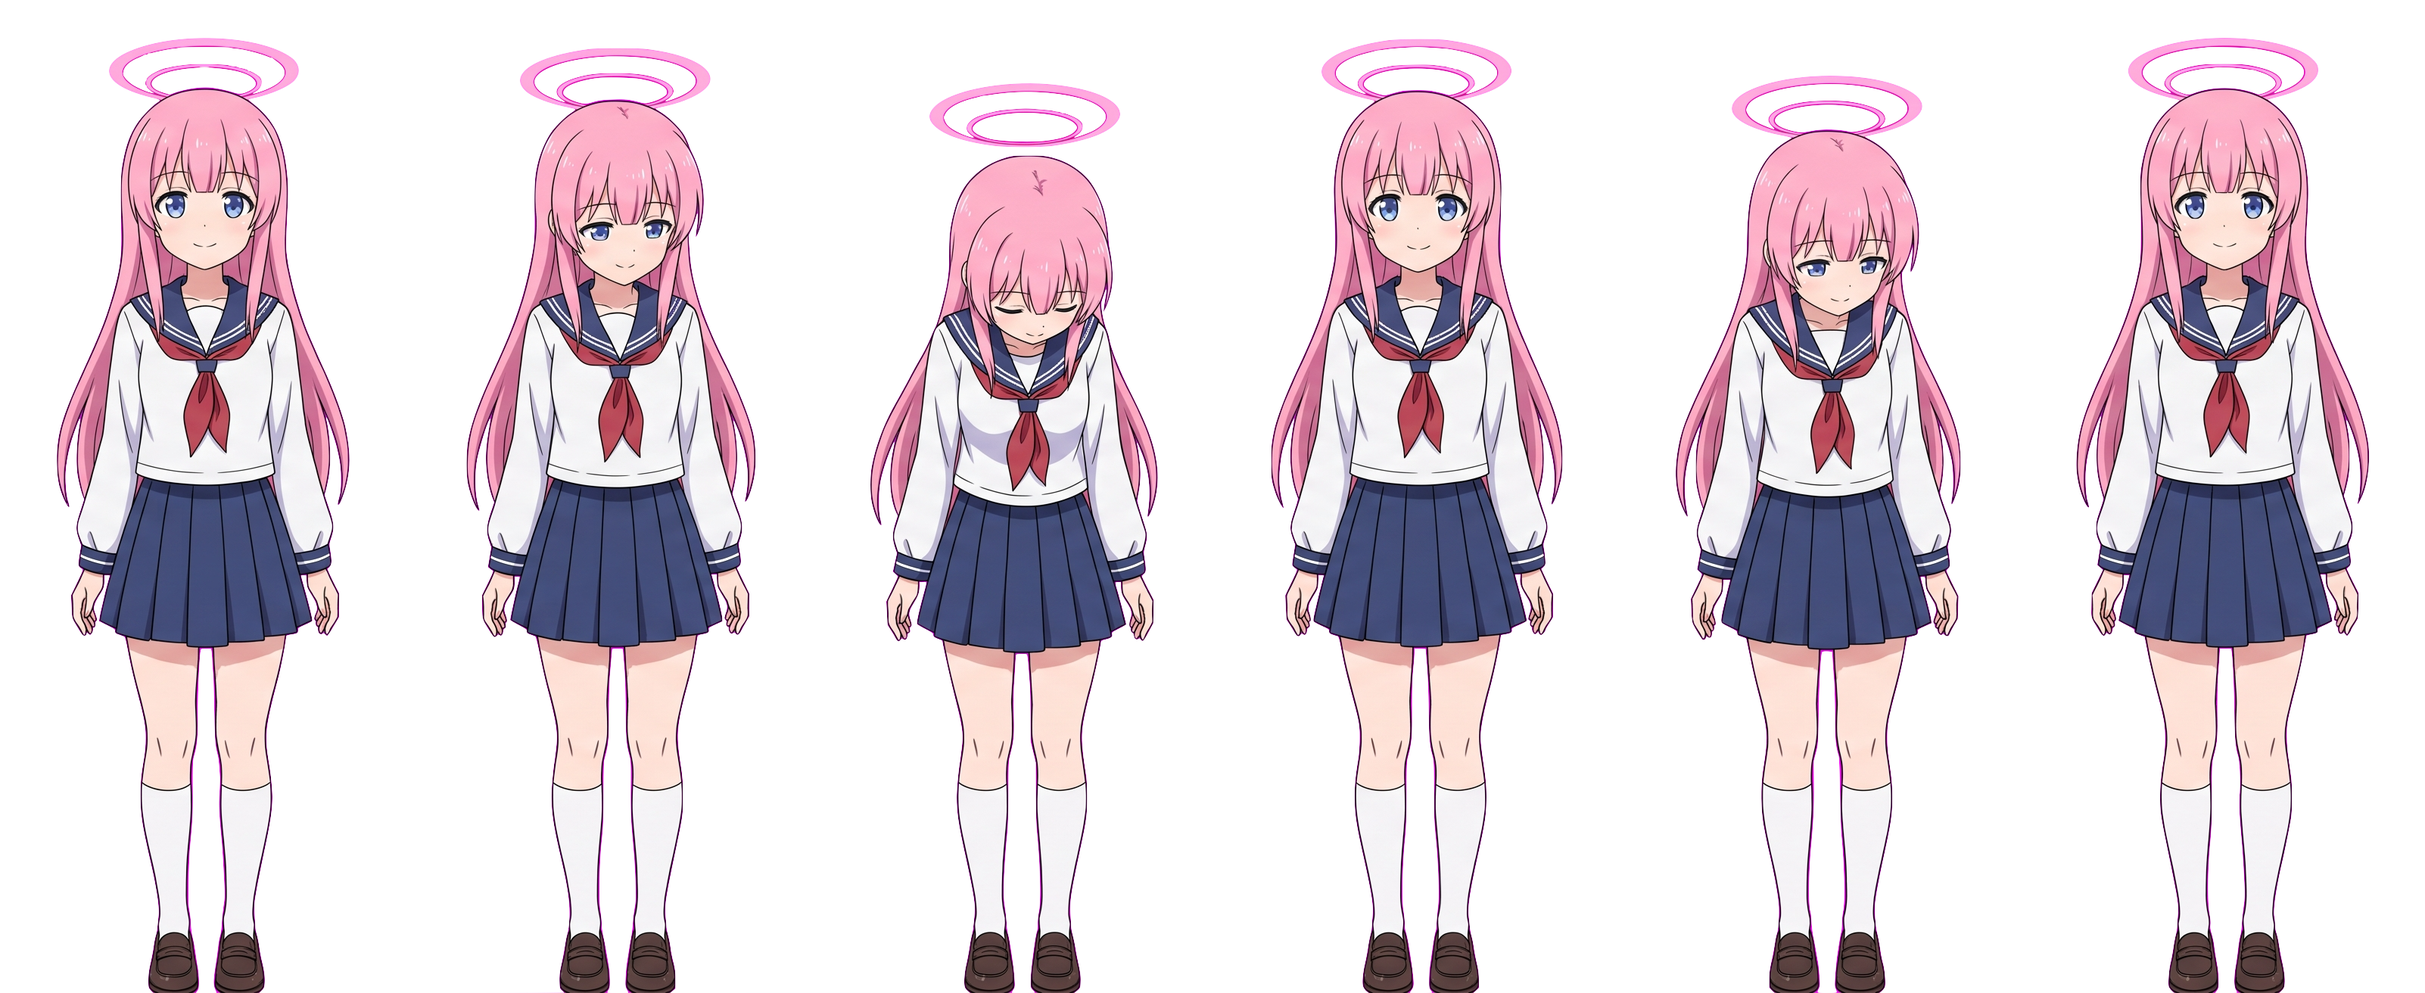
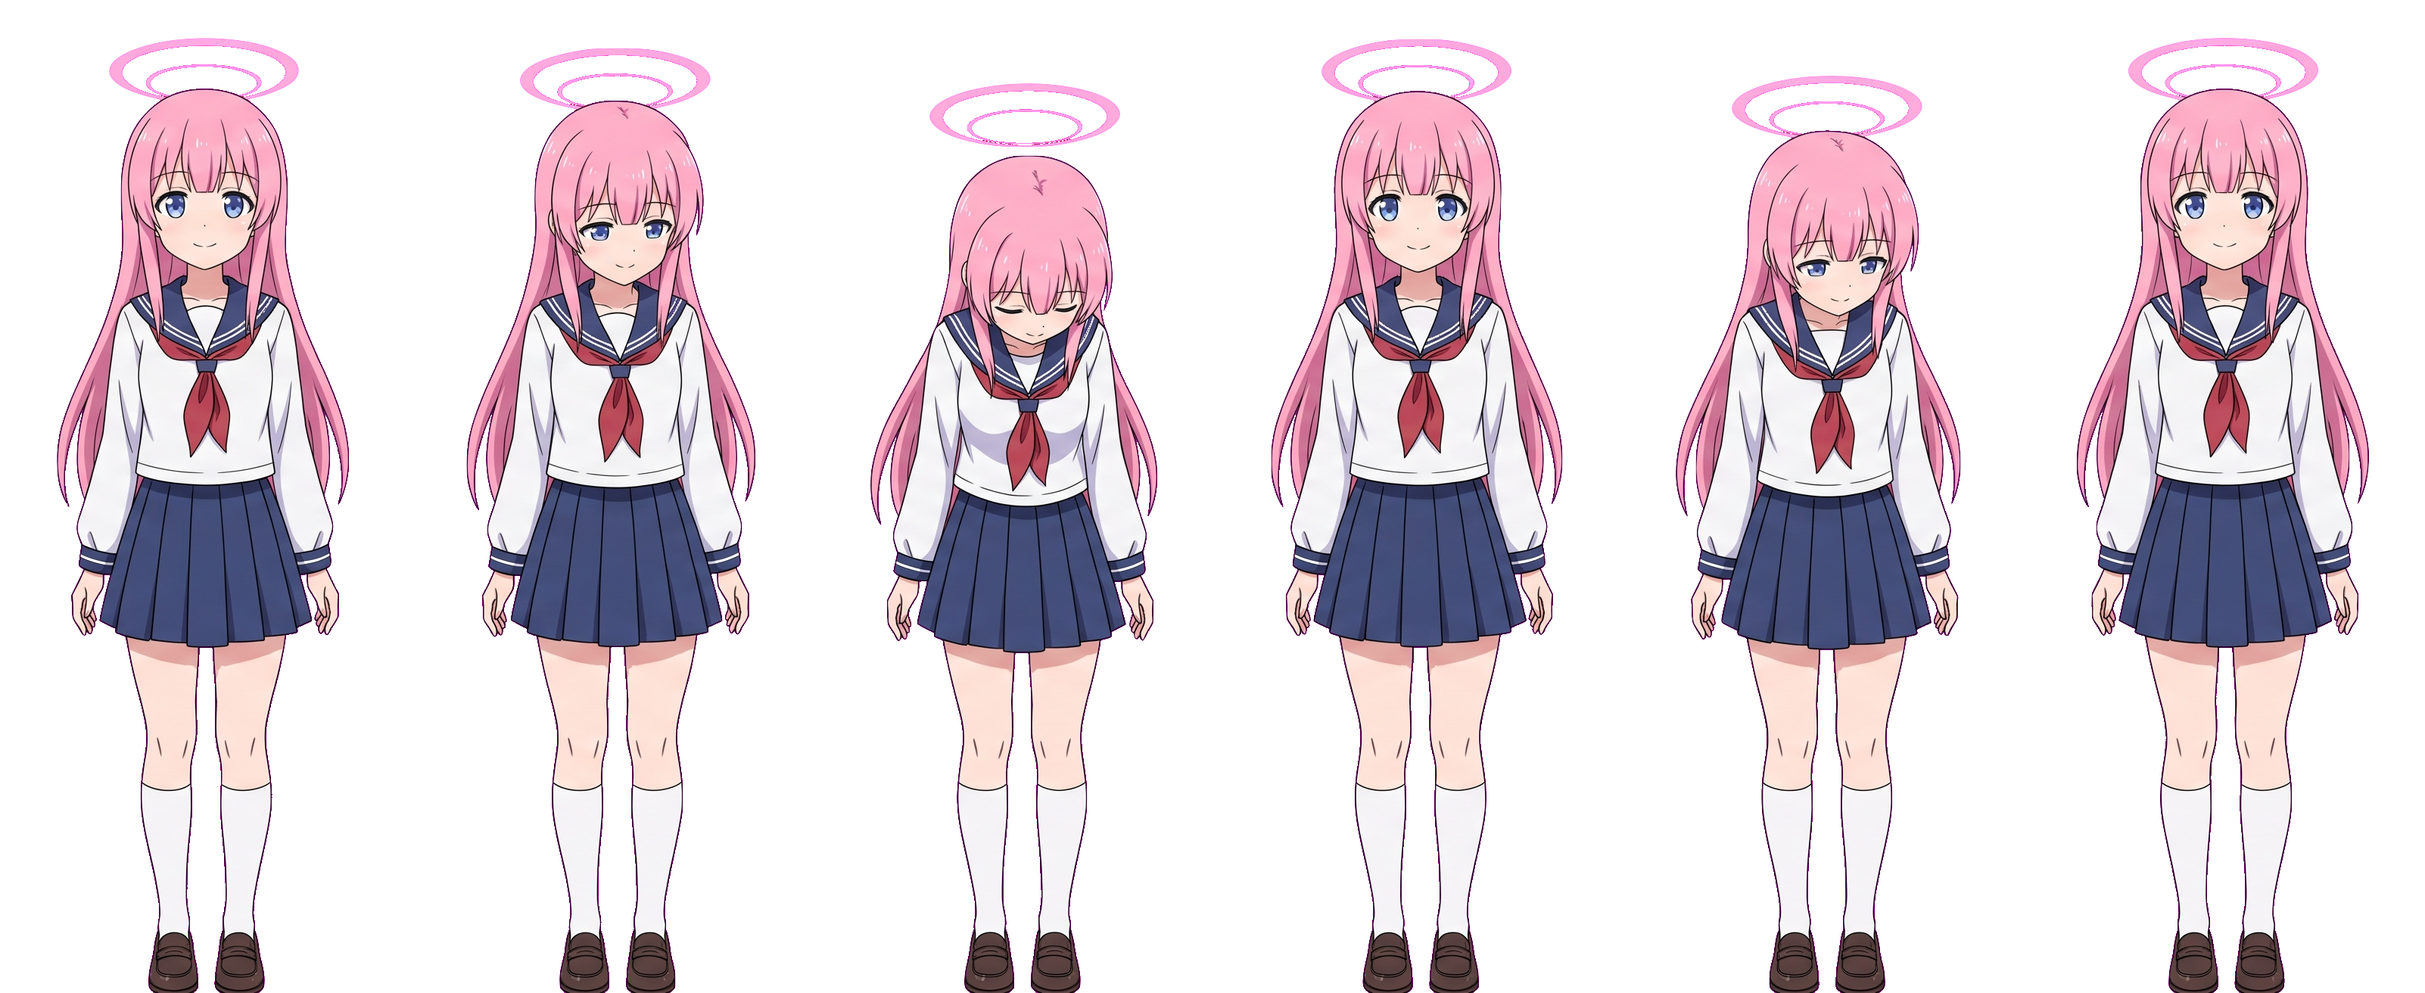
修复(2.5D立绘): 清理精灵表洋红残底与邻帧残臂，按动作语义重映射播放帧
- 7 张精灵表清除洋红底噪与边缘杂点，并删除 11 处跨单元越界残留的邻帧手臂碎片
  （yawn 第 1/2/4/5/6 帧、sit 第 1/3/4 帧；删除前后 py 脚本扫描残留数 11 → 0）
- FrameAnimator 新增 frameSequence 逻辑序列：IDLE 跳过垂直上跳 37px 的第 2 帧、
  SIT 跳过宽腿深蹲帧、SLEEP 定格低头闭眼帧、JUMP 用抬臂欢呼帧、SHAKE_HEAD 用正面待机帧
- CharacterCanvasRenderer 解耦常驻 idleClock、2.5D 坐姿保持正坐末帧，重写 JUMP
  蓄力-腾空-缓冲曲线与 SHAKE_HEAD / SLEEP / SMUG 形变

Harness: DeepSeek Harness (dsh)
Model: deepseek-v4.1-flash

diff --git a/android/app/src/main/java/com/persona/ar/character/CharacterCanvasRenderer.kt b/android/app/src/main/java/com/persona/ar/character/CharacterCanvasRenderer.kt
@@ -51,18 +51,19 @@ fun CharacterCanvasRenderer(
     val animator = remember { FrameAnimator(context.applicationContext) }
     val requestedClip = remember(visualState.action) { animator.clipFor(visualState.action) }
     val idleClip = remember { animator.clipFor(ActionType.IDLE) }
+    val sitClip = remember { animator.clipFor(ActionType.SIT) }
 
-    // 动作开始时间戳：当 action 或 actionStartedAtNanos 变化时同步更新，确保连续点击时从第 0 帧平滑重播
+    // 动作开始时间戳与常驻待机基准时钟解耦，避免动作结束后与 scheduleActionReset 发生二次跳帧
     var actionStartNanos by remember(visualState.action, visualState.actionStartedAtNanos) {
         mutableLongStateOf(
             if (visualState.actionStartedAtNanos > 0L) visualState.actionStartedAtNanos else System.nanoTime()
         )
     }
-    var nowNanos by remember { mutableLongStateOf(0L) }
+    val idleStartNanos = remember { System.nanoTime() }
+    var nowNanos by remember { mutableLongStateOf(System.nanoTime()) }
     LaunchedEffect(visualState.action, visualState.actionStartedAtNanos) {
         actionStartNanos = if (visualState.actionStartedAtNanos > 0L) visualState.actionStartedAtNanos else System.nanoTime()
     }
-    // 用无限动画驱动重绘，保证帧刷新
     LaunchedEffect(Unit) {
         while (true) {
             nowNanos = System.nanoTime()
@@ -73,21 +74,35 @@ fun CharacterCanvasRenderer(
     val elapsedSeconds = if (actionStartNanos > 0L && nowNanos >= actionStartNanos) {
         (nowNanos - actionStartNanos) / 1_000_000_000f
     } else 0f
+    val idleClockSeconds = ((nowNanos - idleStartNanos) / 1_000_000_000f).coerceAtLeast(0f)
 
-    // 一次性动作播完后自动平滑切回待机呼吸，避免定格在最后一帧；再次点击时立即从第 0 帧重新响应
-    val (activeClip, activeElapsed) = remember(requestedClip, idleClip, elapsedSeconds) {
-        if (requestedClip != null) {
-            if (requestedClip.loop || elapsedSeconds < animator.durationSeconds(requestedClip)) {
-                Pair(requestedClip, elapsedSeconds)
-            } else {
-                Pair(idleClip ?: requestedClip, elapsedSeconds)
+    // 坐姿保持：SIT 播完定格在正坐末帧；IDLE 且处于坐姿时延续正坐态不站回；一次性动作播完切回连续时钟待机
+    val (activeClip, activeElapsed) = remember(
+        requestedClip, idleClip, sitClip, visualState.action, visualState.skeletonStance, elapsedSeconds, idleClockSeconds
+    ) {
+        val isSitting = visualState.skeletonStance == SkeletonStance.SITTING
+        when {
+            visualState.action == ActionType.SIT && sitClip != null -> {
+                Pair(sitClip, elapsedSeconds.coerceAtMost(animator.durationSeconds(sitClip)))
             }
-        } else {
-            Pair(idleClip, elapsedSeconds)
+            requestedClip != null && visualState.action != ActionType.IDLE -> {
+                if (requestedClip.loop || elapsedSeconds < animator.durationSeconds(requestedClip)) {
+                    Pair(requestedClip, elapsedSeconds)
+                } else if (isSitting && sitClip != null) {
+                    Pair(sitClip, animator.durationSeconds(sitClip))
+                } else {
+                    Pair(idleClip ?: requestedClip, idleClockSeconds)
+                }
+            }
+            isSitting && sitClip != null -> {
+                Pair(sitClip, animator.durationSeconds(sitClip))
+            }
+            else -> {
+                Pair(idleClip, idleClockSeconds)
+            }
         }
     }
 
-    // 当前帧序号：整张精灵表不切分，绘制时按网格取第 index 格
     val currentFrameIndex = remember(activeClip, activeElapsed) {
         activeClip?.let { clip ->
             animator.frameIndexAt(clip, activeElapsed)
@@ -106,10 +121,52 @@ fun CharacterCanvasRenderer(
         label = "smoothTiltY"
     )
 
-    // 动作与表情物理律动（跳跃腾空 / 摇头摆头 / 得意歪头）
+    // 动作与表情物理律动（跳跃腾空+挤压拉伸 / 摇头摆头 / 睡觉轻呼吸摇晃 / 得意昂首）
     val actionPhaseSec = elapsedSeconds.coerceAtLeast(0f)
-    val actionShakeOffsetX = if (visualState.action == ActionType.SHAKE_HEAD && actionPhaseSec < 1.5f) {
-        sin(actionPhaseSec * 16f) * 9f * (1f - actionPhaseSec / 1.5f)
+    val jumpClipDur = requestedClip?.let { animator.durationSeconds(it) } ?: 1.55f
+    val jumpOffsetY: Float
+    val jumpScaleX: Float
+    val jumpScaleY: Float
+    if (visualState.action == ActionType.JUMP && actionPhaseSec < jumpClipDur) {
+        val p = (actionPhaseSec / jumpClipDur).coerceIn(0f, 1f)
+        when {
+            p < 0.18f -> {
+                val k = p / 0.18f
+                jumpOffsetY = 12f * k; jumpScaleX = 1f + 0.07f * k; jumpScaleY = 1f - 0.08f * k
+            }
+            p < 0.78f -> {
+                val arc = sin(((p - 0.18f) / 0.60f) * Math.PI).toFloat()
+                jumpOffsetY = -78f * arc; jumpScaleX = 1f - 0.04f * arc; jumpScaleY = 1f + 0.06f * arc
+            }
+            else -> {
+                val c = sin(((p - 0.78f) / 0.22f) * Math.PI).toFloat()
+                jumpOffsetY = 10f * c; jumpScaleX = 1f + 0.06f * c; jumpScaleY = 1f - 0.06f * c
+            }
+        }
+    } else {
+        jumpOffsetY = 0f; jumpScaleX = 1f; jumpScaleY = 1f
+    }
+
+    val actionShakeOffsetX = if (visualState.action == ActionType.SHAKE_HEAD && actionPhaseSec < 1.75f) {
+        val p = (actionPhaseSec / 1.75f).coerceIn(0f, 1f)
+        sin(p * Math.PI * 6.0).toFloat() * 14f * (1f - p * 0.5f)
+    } else 0f
+    val actionShakeTiltDeg = if (visualState.action == ActionType.SHAKE_HEAD && actionPhaseSec < 1.75f) {
+        val p = (actionPhaseSec / 1.75f).coerceIn(0f, 1f)
+        sin(p * Math.PI * 6.0).toFloat() * 3.2f * (1f - p * 0.5f)
+    } else 0f
+
+    val sleepBobY = if (visualState.action == ActionType.SLEEP) {
+        sin(idleClockSeconds * 1.45).toFloat() * 3.5f
+    } else 0f
+    val sleepTiltDeg = if (visualState.action == ActionType.SLEEP) {
+        sin(idleClockSeconds * 0.92).toFloat() * 2.2f
+    } else 0f
+    val smugScaleBoost = if (visualState.action == ActionType.SMUG || visualState.emotion == EmotionType.CONFIDENT) {
+        1.028f
+    } else 1f
+    val smugLiftY = if (visualState.action == ActionType.SMUG) {
+        -6f * sin((actionPhaseSec / 2.2f).coerceIn(0f, 1f) * Math.PI).toFloat()
     } else 0f
 
     // 触碰即时局部形变响应 (Squeeze & Spring Bounce)
@@ -132,10 +189,12 @@ fun CharacterCanvasRenderer(
     )
 
     val smugLeanDeg by animateFloatAsState(
-        targetValue = if (visualState.action == ActionType.SMUG || visualState.emotion == EmotionType.CONFIDENT) {
-            4.5f
-        } else 0f,
-        animationSpec = spring(dampingRatio = Spring.DampingRatioMediumBouncy),
+        targetValue = when {
+            visualState.action == ActionType.SMUG || visualState.emotion == EmotionType.CONFIDENT ->
+                2.5f * sin(idleClockSeconds * 1.8).toFloat()
+            else -> 0f
+        },
+        animationSpec = tween(durationMillis = 180),
         label = "smugLean"
     )
 
@@ -177,12 +236,6 @@ fun CharacterCanvasRenderer(
     var offsetX by remember { mutableFloatStateOf(0f) }
     var offsetY by remember { mutableFloatStateOf(0f) }
     var scale by remember { mutableFloatStateOf(1.0f) }
-
-    val jumpAnim by animateFloatAsState(
-        targetValue = if (visualState.action == ActionType.JUMP) -50f else 0f,
-        animationSpec = spring(dampingRatio = Spring.DampingRatioMediumBouncy),
-        label = "jump"
-    )
 
     Box(
         modifier = modifier
@@ -228,7 +281,7 @@ fun CharacterCanvasRenderer(
                 .offset {
                     IntOffset(
                         (offsetX + smoothTiltX + actionShakeOffsetX).roundToInt(),
-                        (offsetY + smoothTiltY + effectiveBounce + jumpAnim + bodySquishOffset).roundToInt()
+                        (offsetY + smoothTiltY + effectiveBounce + jumpOffsetY + sleepBobY + smugLiftY + bodySquishOffset).roundToInt()
                     )
                 }
         ) {
@@ -289,9 +342,14 @@ fun CharacterCanvasRenderer(
                 val charW = 240f * s
                 val charH = charW * (activeClip.frameHeight.toFloat() / activeClip.frameWidth.toFloat())
                 val footY = cy + 255f * s
+                val waistY = footY - charH * 0.45f
                 val headCenterY = footY - charH * 0.84f
+                val spriteTilt = smugLeanDeg + actionShakeTiltDeg + sleepTiltDeg
+                val sx = cheekSquishScaleX * jumpScaleX * smugScaleBoost
+                val sy = headSquishScaleY * jumpScaleY * smugScaleBoost
                 withTransform({
-                    rotate(degrees = smugLeanDeg, pivot = Offset(cx, footY))
+                    rotate(degrees = spriteTilt, pivot = Offset(cx, waistY))
+                    scale(scaleX = sx, scaleY = sy, pivot = Offset(cx, footY))
                 }) {
                     drawAnimatedFrame(
                         clip = activeClip,

diff --git a/android/app/src/main/java/com/persona/ar/character/FrameAnimator.kt b/android/app/src/main/java/com/persona/ar/character/FrameAnimator.kt
@@ -30,18 +30,22 @@ class FrameAnimator(
      * @param sheet 整张精灵表位图（含全部帧）
      * @param frameCount 横向帧数（等分份数）
      * @param fps 播放帧率
-     * @param loop 是否循环（待机为 true；挥手/鞠躬等一次性动作为 false）
+     * @param loop 是否循环（待机/睡觉为 true；挥手/鞠躬等一次性动作为 false）
+     * @param frameSequence 逻辑播放序列（可跳过首尾回归待机的多余帧或悬浮异常帧，null 则按 0..frameCount-1 顺序播放）
      */
     class Clip(
         val sheet: ImageBitmap,
         val frameCount: Int,
         val fps: Float,
-        val loop: Boolean
+        val loop: Boolean,
+        val frameSequence: IntArray? = null
     ) {
         /** 单帧在源图中的宽度（像素）：整表宽 / 帧数，各帧完全一致 */
         val frameWidth: Int = sheet.width / frameCount
         /** 单帧在源图中的高度（像素）：取整表高度 */
         val frameHeight: Int = sheet.height
+        /** 实际播放步数 */
+        val stepCount: Int get() = frameSequence?.size ?: frameCount
 
         override fun equals(other: Any?): Boolean = this === other
         override fun hashCode(): Int = System.identityHashCode(this)
@@ -49,41 +53,34 @@ class FrameAnimator(
 
     private val cache = HashMap<String, Clip?>()
 
-    /** 单个动作的精灵表规格：文件名、横向帧数、播放帧率、是否循环。 */
+    /** 单个动作的精灵表规格：文件名、横向帧数、播放帧率、是否循环及逻辑帧序号表。 */
     internal class ActionClipSpec(
         val fileName: String,
         val frameCount: Int,
         val fps: Float,
-        val loop: Boolean
+        val loop: Boolean,
+        val frameSequence: IntArray? = null
     )
 
     companion object {
-        /**
-         * 动作 → (精灵表文件名, 帧数, fps, 是否循环)。
-         *
-         * fps 按「每个动作应有的自然时长」反推：fps = 帧数 / 目标时长。6 帧素材下，
-         * 若按直觉设成 7-9fps，一个动作只播 0.7-0.9 秒，快得看不清（实测用户反馈「根本就看不清」）。
-         * 这里按动作语义定目标时长：待机呼吸最慢（1.5fps ≈ 4s），点头最快（4fps ≈ 1.5s），其余在 2s 左右。
-         *
-         * 放在 companion 里是为了让 JVM 单测在不启动 Android Context / BitmapFactory 的情况下
-         * 直接断言「捏脸动作一定有预渲染序列帧」。
-         */
         internal val ACTION_CLIP_SPECS: Map<ActionType, ActionClipSpec> = mapOf(
-            ActionType.IDLE to ActionClipSpec("idle", 6, 1.5f, true),
-            ActionType.WAVE to ActionClipSpec("wave", 6, 3.3f, false),
-            ActionType.BOW to ActionClipSpec("bow", 6, 3.0f, false),
-            ActionType.YAWN to ActionClipSpec("yawn", 6, 2.4f, false),
-            // 捏脸/害羞/噘嘴共用 shy 序列帧。POUT 必须在这里保留映射：
-            // 一旦缺失，渲染层会回退到非精灵路径，旧版「白色羽毛」伪影就是从这里复现的。
-            ActionType.BLUSH to ActionClipSpec("shy", 6, 3.0f, false),
-            ActionType.POUT to ActionClipSpec("shy", 6, 3.0f, false),
-            ActionType.NOD to ActionClipSpec("nod", 6, 4.0f, false),
-            ActionType.SIT to ActionClipSpec("sit", 6, 3.0f, false),
-            // 其余动作同样绑定精灵表，搭配 Canvas 动态偏移与情绪粒子构成完整 2.5D 演出，永不跌回静态矢量兜底
-            ActionType.JUMP to ActionClipSpec("wave", 6, 3.8f, false),
-            ActionType.SMUG to ActionClipSpec("idle", 6, 2.2f, false),
-            ActionType.SHAKE_HEAD to ActionClipSpec("nod", 6, 4.0f, false),
-            ActionType.SLEEP to ActionClipSpec("yawn", 6, 1.2f, true)
+            // IDLE 跳过第 2 帧垂直上跳 37px 的异常帧，消除手机静止时的无故浮动
+            ActionType.IDLE to ActionClipSpec("idle", 6, 1.8f, true, intArrayOf(0, 1, 3, 5, 3, 1)),
+            ActionType.WAVE to ActionClipSpec("wave", 6, 3.6f, false, intArrayOf(0, 1, 2, 3, 4, 3, 4, 5)),
+            ActionType.BOW to ActionClipSpec("bow", 6, 3.2f, false, intArrayOf(0, 1, 2, 3, 3, 4, 5)),
+            ActionType.YAWN to ActionClipSpec("yawn", 6, 2.5f, false, intArrayOf(0, 1, 2, 3, 3, 4, 5)),
+            // BLUSH 使用 shy 全程羞涩低头捧手；POUT 保留 shy 资产但仅取第 1/2 帧傲娇鼓腮转头态
+            ActionType.BLUSH to ActionClipSpec("shy", 6, 2.8f, false, intArrayOf(0, 1, 2, 3, 3, 4, 5)),
+            ActionType.POUT to ActionClipSpec("shy", 6, 3.0f, false, intArrayOf(0, 1, 2, 1, 2, 1)),
+            ActionType.NOD to ActionClipSpec("nod", 6, 4.0f, false, intArrayOf(0, 1, 2, 3, 4, 2, 5)),
+            // SIT 跳过宽腿深蹲的 1/2 帧，利落进入正坐第 4/5 帧并停留保持
+            ActionType.SIT to ActionClipSpec("sit", 6, 3.6f, false, intArrayOf(0, 3, 4, 5)),
+            // JUMP 使用高举双臂欢呼的 yawn 帧配合跳跃抛物线与挤压拉伸；SHAKE_HEAD 用正面待机帧配合水平摇头
+            ActionType.JUMP to ActionClipSpec("yawn", 6, 3.8f, false, intArrayOf(0, 2, 3, 3, 2, 0)),
+            ActionType.SMUG to ActionClipSpec("idle", 6, 2.0f, false, intArrayOf(0, 3, 0, 3, 0)),
+            ActionType.SHAKE_HEAD to ActionClipSpec("idle", 6, 3.5f, false, intArrayOf(0, 0, 0, 0, 0, 0)),
+            // SLEEP 定格在 nod 第 2 帧（闭眼低首放松态），叠加轻柔睡眠呼吸律动与 Zzz，告别张嘴打哈欠死循环
+            ActionType.SLEEP to ActionClipSpec("nod", 6, 1.5f, true, intArrayOf(2))
         )
 
         /** 查询动作对应的精灵表规格；null 表示该动作没有预渲染序列帧。 */
@@ -104,7 +101,7 @@ class FrameAnimator(
                     if (bmp == null || bmp.width < spec.frameCount) {
                         null
                     } else {
-                        Clip(bmp.asImageBitmap(), spec.frameCount, spec.fps, spec.loop)
+                        Clip(bmp.asImageBitmap(), spec.frameCount, spec.fps, spec.loop, spec.frameSequence)
                     }
                 }
             } catch (e: Throwable) {
@@ -119,19 +116,22 @@ class FrameAnimator(
     fun hasClip(action: ActionType): Boolean = clipFor(action) != null
 
     /**
-     * 按经过时间计算当前帧序号（0-based）。
+     * 按经过时间计算当前精灵图格子索引（0-based）。
      * @param elapsedSeconds 动作开始至今的秒数
-     * @return 帧序号；一次性动作超出时长后停在最后一帧
+     * @return 源图第 index 格；一次性动作超出时长后停在末帧
      */
     fun frameIndexAt(clip: Clip, elapsedSeconds: Float): Int {
-        val raw = (elapsedSeconds * clip.fps).toInt()
-        return if (clip.loop) {
-            ((raw % clip.frameCount) + clip.frameCount) % clip.frameCount
+        val count = clip.stepCount.coerceAtLeast(1)
+        val raw = (elapsedSeconds.coerceAtLeast(0f) * clip.fps).toInt()
+        val step = if (clip.loop) {
+            ((raw % count) + count) % count
         } else {
-            raw.coerceIn(0, clip.frameCount - 1)
+            raw.coerceIn(0, count - 1)
         }
+        val mapped = clip.frameSequence?.getOrNull(step) ?: step
+        return mapped.coerceIn(0, clip.frameCount - 1)
     }
 
     /** 一次性动作总时长（秒），用于判断动画是否播完 */
-    fun durationSeconds(clip: Clip): Float = clip.frameCount / clip.fps
+    fun durationSeconds(clip: Clip): Float = clip.stepCount / clip.fps
 }

diff --git a/android/app/src/test/java/com/persona/ar/character/FrameAnimatorSpecTest.kt b/android/app/src/test/java/com/persona/ar/character/FrameAnimatorSpecTest.kt
@@ -27,7 +27,8 @@ class FrameAnimatorSpecTest {
     fun `all touch-triggered actions have a sprite mapping`() {
         // 与 PersonaViewModel.onTouchPart 的映射保持一致：HEAD/BODY/HAND/CHEEK
         val touchActions = listOf(
-            ActionType.WAVE,   // HEAD / HAND
+            ActionType.NOD,    // HEAD
+            ActionType.WAVE,   // HAND
             ActionType.POUT,   // CHEEK
             ActionType.BLUSH   // BODY
         )
@@ -56,5 +57,20 @@ class FrameAnimatorSpecTest {
         ActionType.values().forEach { action ->
             assertNotNull("$action 必须绑定预渲染精灵表，防止掉落静态矢量路径", FrameAnimator.specFor(action))
         }
+    }
+
+    @Test
+    fun `idle skips vertical float frame 2 and sleep stays calm without open-mouth yawn`() {
+        val idleSpec = FrameAnimator.specFor(ActionType.IDLE)!!
+        val idleSeq = idleSpec.frameSequence!!
+        assertTrue("IDLE 序列应跳过垂直上跳异常的第 2 帧", !idleSeq.contains(2))
+
+        val sleepSpec = FrameAnimator.specFor(ActionType.SLEEP)!!
+        assertEquals("SLEEP 应采用柔和低头闭眼待睡帧，而非张嘴打哈欠循环", "nod", sleepSpec.fileName)
+        assertEquals(1, sleepSpec.frameSequence?.size)
+        assertEquals(2, sleepSpec.frameSequence?.get(0))
+
+        val shakeSpec = FrameAnimator.specFor(ActionType.SHAKE_HEAD)!!
+        assertEquals("SHAKE_HEAD 不应混入上下点头帧", "idle", shakeSpec.fileName)
     }
 }
